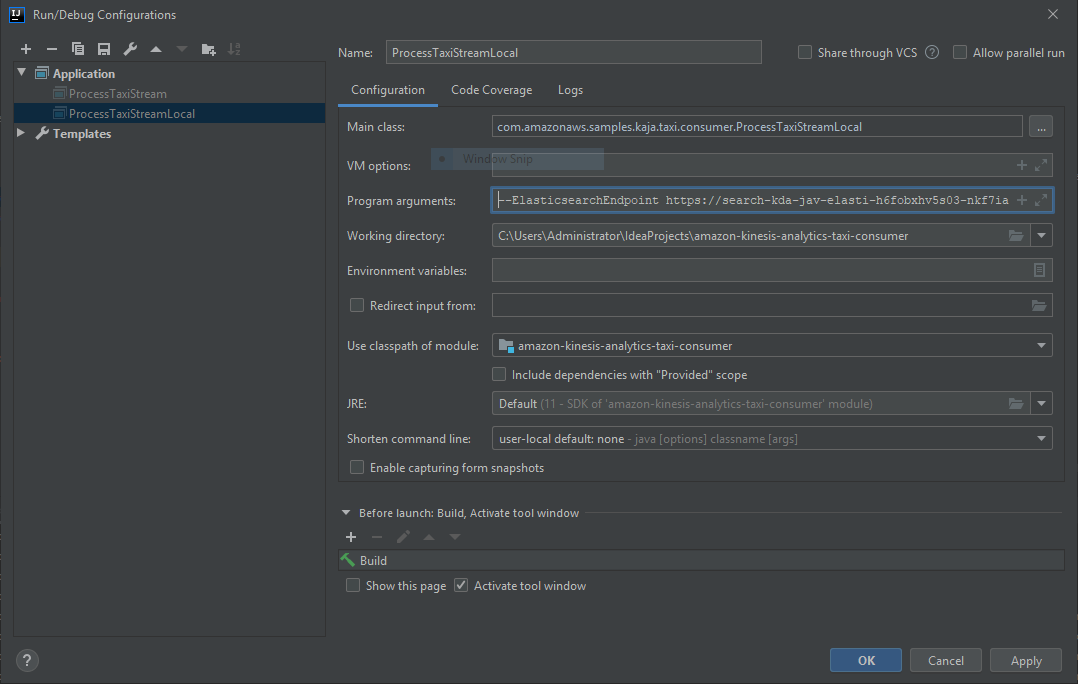
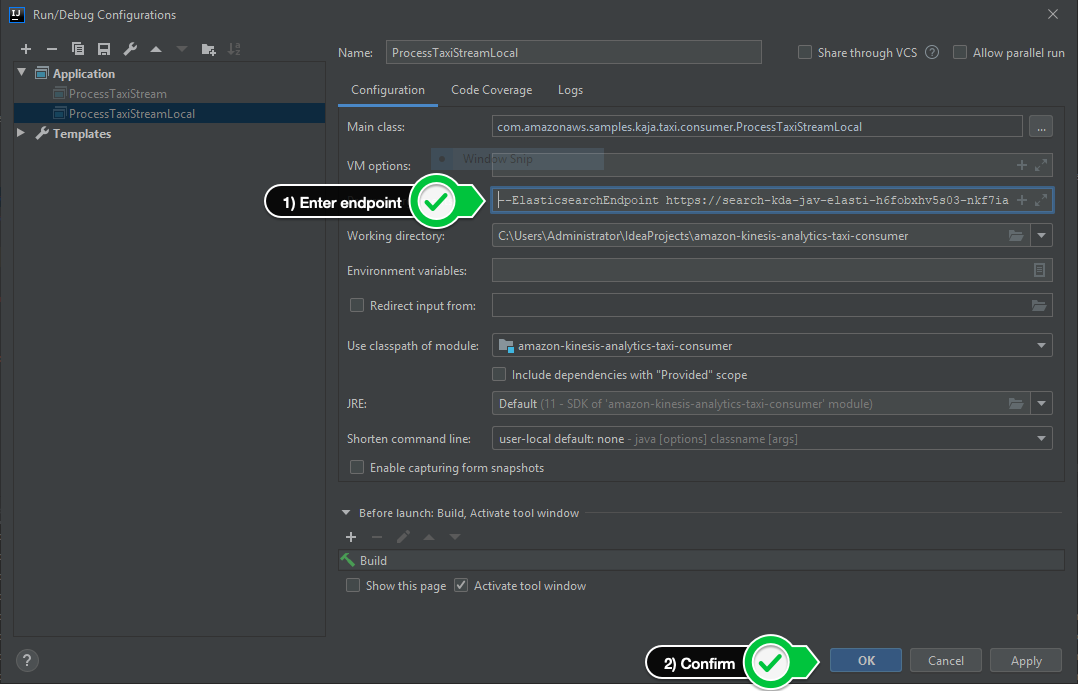
Add additional descriptions and summaries

diff --git a/content/extend-flink-program/window-aggregation.md b/content/extend-flink-program/window-aggregation.md
@@ -4,12 +4,11 @@ chapter: false
 weight: 20
 ---
 
-We'd like to generate statistics about the incoming events. Specifically, we'd like to count how many trips are requested in a specific location to identify the most popular pickup locations. We'd also like to derive how long it takes on average to travel to the airports LaGuardia and JFK.
-
+To localize places in New York that are requesting currently requesting a high number of taxi trip and to generate average trip durations to the airports, we use time windows. Every time window will span an hour according to event time and we can then consider all events within that one hour window to generate the statistics we are interested in for this particular hour.
 
 #### Count trips by pickup locations
 
-To identify popular pickup locations, we'll generate a geo hash with a reduced precision and key by geo hashes. In this way, events in a similar geographic location will end up in the same key group. Finally, we use a time window of one hour (remember that this is according to event time, not actual processing time) and count the number of trips in the respective time window.
+To identify popular pickup locations, we'll generate a geo hash with a reduced precision and key by geo hashes. In this way, events in a similar geographic location will have the same geo hash. We then `keyBy` the geo hash and apply a time window of one hour (remember that this is according to event time, not actual processing time) to the resulting stream. In this way, all events with the same geo hash will be collected in the same window and we can easily determine the overall count for that time window. Finally, we actually count the number of events and emit a new `PickupCount` event that contains the resulting count for each geo hash.
 
 Add the following statement after the `print` statement in Line 94.
 
@@ -28,9 +27,9 @@ pickupCounts.print();
 
 #### Compute average trip durations to airports
 
-To compute the average trip durations, we'll transform the incoming trip events and only emit `TripDuration` events for trips that arrive at one of the airports. Subsequently, we apply a time window of one hour and aggregate the duration of all `TripDuration` events in that time window that arrive to the same airport into an `AverageTripDuration` event.
+To compute the average trip durations, we'll transform the incoming trip events and only emit `TripDuration` events for trips that arrive at one of the airports. We then `keyBy` the pickup location and the destination, so that all trips that started at the same location and ended at the same airport are grouped together. Subsequently, we apply a time window of one hour and aggregate the duration of all `TripDuration` events in that time window that arrive to the same airport into an `AverageTripDuration` event.
 
-Add this statement to the one you have just added in Line 97-103.
+Add this statement after the one you have just added in Line 97-103.
 
 {{< highlight java>}}
 DataStream<AverageTripDuration> tripDurations = trips

diff --git a/content/build-visualization/ingest-data-elasticsearch.md b/content/build-visualization/ingest-data-elasticsearch.md
@@ -4,6 +4,10 @@ chapter: false
 weight: 30
 ---
 
+You can now finally inspect the results that are generated by the Flink application into Elasticsearch and inspect the visualization in Kibana.
+
+1. Terminate the Java producer application that is still producing data into the Kinesis data stream. Go to the terminal pane in IntelliJ and press *CTRL-C* until the producer terminates.
+
 1. Navigate to the `main` method of the `ProcessTaxiStream` class and run it. However, as soon as it has started to execute, you can terminate it again by clicking the red square.
 
 1. Edit the runtime parameters of the `main` method by choosing **Edit Configurations**
@@ -16,12 +20,18 @@ weight: 30
 
 1. Confirm with **OK** and execute the program again by clicking on the green arrow
 
+1. Restart the Java producer application by executing the following command in the Terminal pane of IntelliJ
+
+	```
+java -jar C:\Users\Administrator\Desktop\workshop-resources\amazon-kinesis-replay-1.0-SNAPSHOT.jar -objectPrefix artifacts/kinesis-analytics-taxi-consumer/taxi-trips-partitioned.json.lz4 -aggregate -streamName streaming-analytics-workshop -speedup 600
+	```
+
 1. Navigate to the Dashboard in Kibana and click on **nyc-tlc-dashboard** to view the visualization of the data generated by the Flink application
 
 	![](/images/kibana-5-visualizatio-partial.png)
 
 	{{% notice info %}}
-If you cannot see any new data in the visualization, you may need to adapt the time range in the upper left corner of the Kibana dashboard. The output of the Java producer application will tell you the time of events that are currently ingested into the Kinesis stream.
+If you cannot see any new data in the visualization, you may need to adapt the time range in the upper left corner of the Kibana dashboard. The output of the Java producer application will tell you the time of events that are currently produced into the Kinesis stream.
 	{{% /notice %}}
 
-1. Once you have verified that the data generated by the Flink application is visualized by Kibana, stop the Flink application in IntelliJ. Also terminate the Java producer application that is ingesting events into the Kinesis stream by navigating to the Terminal in IntelliJ and pressing **Ctrl-C**.
+1. Once you have verified that the data generated by the Flink application is visualized by Kibana, stop the Flink application in IntelliJ. Also terminate the Java producer application again by navigating to the Terminal in IntelliJ and pressing *Ctrl-C*.

diff --git a/content/deploy-to-kda/start-kda-app.md b/content/deploy-to-kda/start-kda-app.md
@@ -4,15 +4,17 @@ chapter: false
 weight: 60
 ---
 
+The application is finally ready for execution through the Kinesis Data Analytics service in a fully managed Flink environment. You can now start the execution and send events into the Kinesis data stream, this time with a substantially higher throughput. The Flink application will then continuously processing the data that is ingested into the data stream and send derived insights to Elasticsearch for visualization.
+
 {{% notice warning %}}
-Before you proceed, make sure that you are currently not ingesting any events into the Kinesis stream. Navigate to the Terminal in IntelliJ and if the Java producer application is still running, terminate it by pressing **Ctrl-C**.
+Before you proceed, make sure that you are currently not producing any events into the Kinesis stream. Navigate to the Terminal pane in IntelliJ and if the Java producer application is still running, terminate it by pressing *Ctrl-C*.
 {{% /notice %}}
 
-1. Once the update has completed, press **Run** on the resulting page and confirm that you want to run the application by choosing **Run** again. The application will now start in the background, which can take a couple of minutes. Once it is running, you can inspect the operator graph of the Flink application. The application is continuously processing the data that is ingested into the Kinesis stream and sends derived insights to Elasticsearch for visualization.
+1. Once the update has completed, press **Run** on the resulting page and confirm that you want to run the application by choosing **Run** again. The application will now start in the background, which can take a couple of minutes. Once it is running, you can inspect the operator graph of the Flink application. 
 
 	![](/images/kda-running-app.png)
 
-2. You can now start ingesting data into the Kinesis stream again. However, this time we can substantially increase the speedup factor and hence the throughput of events.
+2. You can now start producing data into the Kinesis stream again. However, this time we can substantially increase the speedup factor and hence the throughput of events.
 
 	```
 java -jar C:\Users\Administrator\Desktop\workshop-resources\amazon-kinesis-replay-1.0-SNAPSHOT.jar -objectPrefix artifacts/kinesis-analytics-taxi-consumer/taxi-trips-partitioned.json.lz4 -aggregate -streamName streaming-analytics-workshop -speedup 4320 

diff --git a/content/ingest-events/_index.md b/content/ingest-events/_index.md
@@ -4,10 +4,8 @@ chapter: true
 weight: 30
 ---
 
-In this chapter, you will create an Kinesis data stream and start ingesting a historic set for taxi trips into the Kinesis stream.
+This chapter focusses on the ingestion part of the architecture. You first create a Kinesis data stream, which serves as a short term streaming store for the events that are created by the taxi fleet. You then start producing a historic set of taxi trips into the Kinesis data stream. 
 
-The Kinesis data stream serves as a buffer that decouples the producers from the consumers. Taxis can persist the events that they generate into the data stream regardless of the condition of, for instance, the processing layer, which might be currently recovering from a node failure. 
+The Kinesis data stream serves as a buffer that decouples the producers from the consumers. It is a common pattern for architectures that are analyzing streaming data to separate producers from consumers by means of a streaming store. In this way, the architecture becomes more robust. Producers and consumers can be scaled independently and producers can still persist events into the data stream even if the consumers are currently experiencing operational problems or the consuming application needs to be updated. 
 
-{{% notice info %}}
-IntelliJ will eventually display an error message that the *flink-connector-kinesis* artifact could not be found on Maven central. That is fine for now, we will address it in one of the future steps.
-{{% /notice %}}
+This architecture also allows you to experiment and adopt new technologies in the future. Multiple independent applications can concurrently consume the data stored in the Kinesis data stream. You can then test how a new version of an existing application performs with a copy of the production traffic. But you can also introduce a different tool and technology stack to analyze the data, again without affecting the existing production application. 

diff --git a/content/extend-flink-program/event-time.md b/content/extend-flink-program/event-time.md
@@ -4,6 +4,9 @@ chapter: false
 weight: 10
 ---
 
+{{% notice info %}}
+In the following steps, you are changing the source code of the Flink application. You only need to make chances to the `ProcessTaxiStreamLocal` class. But in case you have trouble completing the steps or get lost, you can refer to the final result in the `ProcessTaxiStream` class, and continue from there.
+{{% /notice %}}
 
 #### Configure event time for the execution environment
 
@@ -22,13 +25,13 @@ if (parameter.get("EventTime", "true").equals("true")) {
 
 In addition, we need to tell the Flink program, how it can extract the watermark information from the input stream. In this example, the stream contains special watermark events that inform the Flink runtime that all following events will have a timestamp larger than the current watermark.
 
-Extracting the watermarks is done with the `PunctuatedAssigner` class. Add the following `assignTimestampsAndWatermarks` statement right to the top of the existing definition of the `kinesisStream` in Line 84.
+Extracting watermark information and generating watermarks is done with the `TimestampAssigner` class. The class is also responsible for assigning the correct time to individual events. Add the following `assignTimestampsAndWatermarks` statement right to the top of the existing definition of the `kinesisStream` in Line 84.
 
 <!-- "linenos=table,linenostart=85" -->
 {{< highlight java>}}
 DataStream<TripEvent> trips = kinesisStream
     //extract watermarks from watermark events
-    .assignTimestampsAndWatermarks(new PunctuatedAssigner())
+    .assignTimestampsAndWatermarks(new TimestampAssigner())
     ...
 {{< / highlight >}}
 

diff --git a/content/ingest-events/ingest-data.md b/content/ingest-events/ingest-data.md
@@ -7,13 +7,17 @@ weight: 16
 We will use a Java application to replay a historic set of taxi trips made in NYC that are stored in objects in Amazon S3 into the Kinesis stream.
 The Java application has already been compiled and loaded onto the EC2 instance. If you are interested into the details of the application, you can obtain the sources, including a CloudFormation template to build the Java application with Amazon CodePipeline, from [GitHub](https://github.com/aws-samples/amazon-kinesis-replay).
 
+{{% notice info %}}
+IntelliJ will eventually display an error message that the *flink-connector-kinesis* artifact could not be found on Maven central. That is fine for now, we will address it in one of the future steps.
+{{% /notice %}}
+
 1. Start the Intellij IDE by double clicking the icon on the desktop
 
 1. Click on the **Terminal** icon in the bottom of Intellij to open a shell
 
 	![](/images/intellij-3-ingest.png)
 
-1. Enter the following command into the terminal prompt to start ingesting events into the Kinesis data stream
+1. Enter the following command into the terminal prompt to start producing events into the Kinesis data stream
 
 	```
 java -jar C:\Users\Administrator\Desktop\workshop-resources\amazon-kinesis-replay-1.0-SNAPSHOT.jar -objectPrefix artifacts/kinesis-analytics-taxi-consumer/taxi-trips-partitioned.json.lz4 -aggregate -streamName streaming-analytics-workshop -speedup 600

diff --git a/content/scale-monitor/scale-kda.md b/content/scale-monitor/scale-kda.md
@@ -4,7 +4,7 @@ chapter: false
 weight: 40
 ---
 
-As you have increased the throughput of the Kinesis stream by doubling the number of shards, more events are ingested into the stream. However, as a direct result, more events need to be processed. So now the Kinesis Data Analytics for Java application becomes overloaded and can no longer keep up with the increased number of incoming events. You can observe this through the millisBehindLatest metric, which is published to CloudWatch.
+As you have increased the throughput of the Kinesis stream by doubling the number of shards, more events are sent into the stream. However, as a direct result, more events need to be processed. So now the Kinesis Data Analytics for Java application becomes overloaded and can no longer keep up with the increased number of incoming events. You can observe this through the millisBehindLatest metric, which is published to CloudWatch.
 
 In contrast to Kinesis Data Streams, Kinesis Data Analytics for Java Applications natively supports auto scaling. After 10-15 minutes, you can see the effect of the scaling activities in the metrics. The millisBehindLatest metric starts to decrease until it reaches zero, when the processing has caught up with the tip of the Kinesis data stream.
 

diff --git a/content/extend-flink-program/_index.md b/content/extend-flink-program/_index.md
@@ -4,8 +4,5 @@ chapter: true
 weight: 50
 ---
 
-In this chapter, you'll extend the existing Flink program with the advanced capabilities we've just discussed.
+In this chapter, you extend the existing Flink application. The current version is just echoing the events that are ingested into the data stream. However, the goal is to analyze the incoming information to provide timely insights into the current condition of the taxi fleet. You will extend the existing application to generate statistics about hot spots, ie, places in New York that are currently requesting a high number of taxi trip so that operators can proactively send empty taxis there. You will also implement logic to derive the average time it takes taxis to the airports La Guardia and JFK.
 
-{{% notice info %}}
-In the following steps, you are changing the source code of the Flink application. In case you have trouble completing the steps or get lost, you can refer to the `ProcessTaxiStream` class, which contains the final result, and continue from there.
-{{% /notice %}}

diff --git a/content/introduction/_index.md b/content/introduction/_index.md
@@ -8,7 +8,7 @@ weight: 10
 
 We use a scenario to analyze the telemetry data of a taxi fleet in New York City in near-real time to optimize the fleet operation. 
 
-In this scenario, every taxi in the fleet is capturing information about completed trips. The tracked information includes the pickup and drop-off locations, number of passengers, and generated revenue. This information is ingested into a Kinesis data stream as a simple JSON blob.
+In this scenario, every taxi in the fleet is capturing information about completed trips. The tracked information includes the pickup and drop-off locations, number of passengers, and generated revenue. This information is produced into a Kinesis data stream as a simple JSON blob.
 
 From there, the data is processed and analyzed to identify areas that are currently requesting a high number of taxi rides. The derived insights are finally visualized in a dashboard for operators to inspect.
 

diff --git a/content/scale-monitor/scale-kinesis.md b/content/scale-monitor/scale-kinesis.md
@@ -4,7 +4,7 @@ chapter: false
 weight: 10
 ---
 
-When you closely expect the output of the producer application, you will notice that it is experiencing write provisioned throughput exceeded exceptions and cannot ingest data fast enough. For the purpose of the workshop, the Kinesis data stream has been deliberately under provisioned. As this would be a major problem for production environments, you'll now scale the stream to adapt it's throughput.
+When you closely expect the output of the producer application, you will notice that it is experiencing write provisioned throughput exceeded exceptions and cannot send data fast enough. For the purpose of the workshop, the Kinesis data stream has been deliberately under provisioned. As this would be a major problem for production environments, you'll now scale the stream to increase its capacity.
 
 ![](/images/intellij-13-replay-lag-copy.png)
 

diff --git a/content/local-flink-development/anatomy-flink-program.md b/content/local-flink-development/anatomy-flink-program.md
@@ -15,5 +15,5 @@ According to the [Flink documentation](https://ci.apache.org/projects/flink/flin
 If you are attending an AWS hosted event, we will cover the different parts in a presentation format. If you are running the workshop on your own, please refer to the official [Flink documentation](https://ci.apache.org/projects/flink/flink-docs-stable/dev/api_concepts.html#anatomy-of-a-flink-program) to learn more about the anatomy of a Flink program. 
 
 {{% notice info %}}
-If you are attending an AWS hosted event and have reached this point, please make yourself noticeable. We will start with the presentation once enough attendees have reached this point.
+If you are attending an AWS hosted event and please pause here and wait for the presentation. Please make yourself noticeable, we will start with the presentation once enough attendees have reached this point.
 {{% /notice %}}

diff --git a/content/deploy-to-kda/create-kda-app.md b/content/deploy-to-kda/create-kda-app.md
@@ -4,7 +4,7 @@ chapter: false
 weight: 40
 ---
 
-We can then create the Kinesis Analytics for Java application. A Kinesis Analytics for Java application basically consists of a reference to the Flink application in S3 and some additional configuration data. Once the Kinesis Analytics for Java application has been created, it can be deployed and executed by the services in a fully managed environment.
+You can then create the Kinesis Analytics for Java application. A Kinesis Analytics for Java application basically consists of a reference to the Flink application in S3 and some additional configuration data. Once the Kinesis Analytics for Java application has been created, it can be deployed and executed by the services in a fully managed environment.
 
 1. Navigate to the Kinesis services in the management console and press **Create analytics application**. 
 
